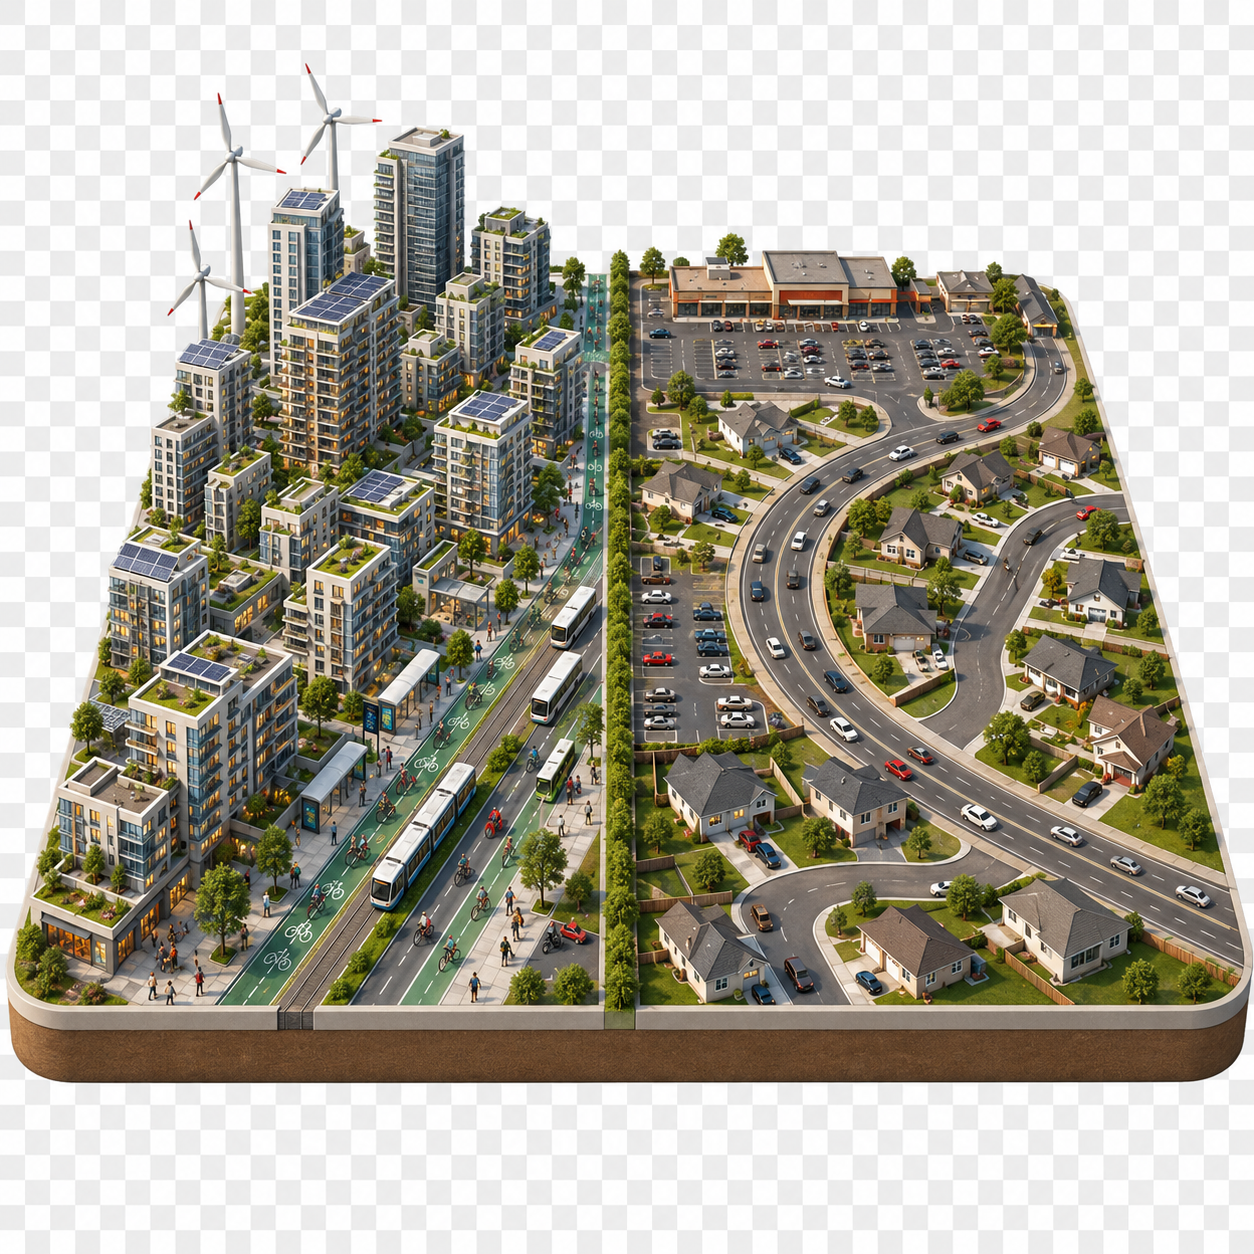
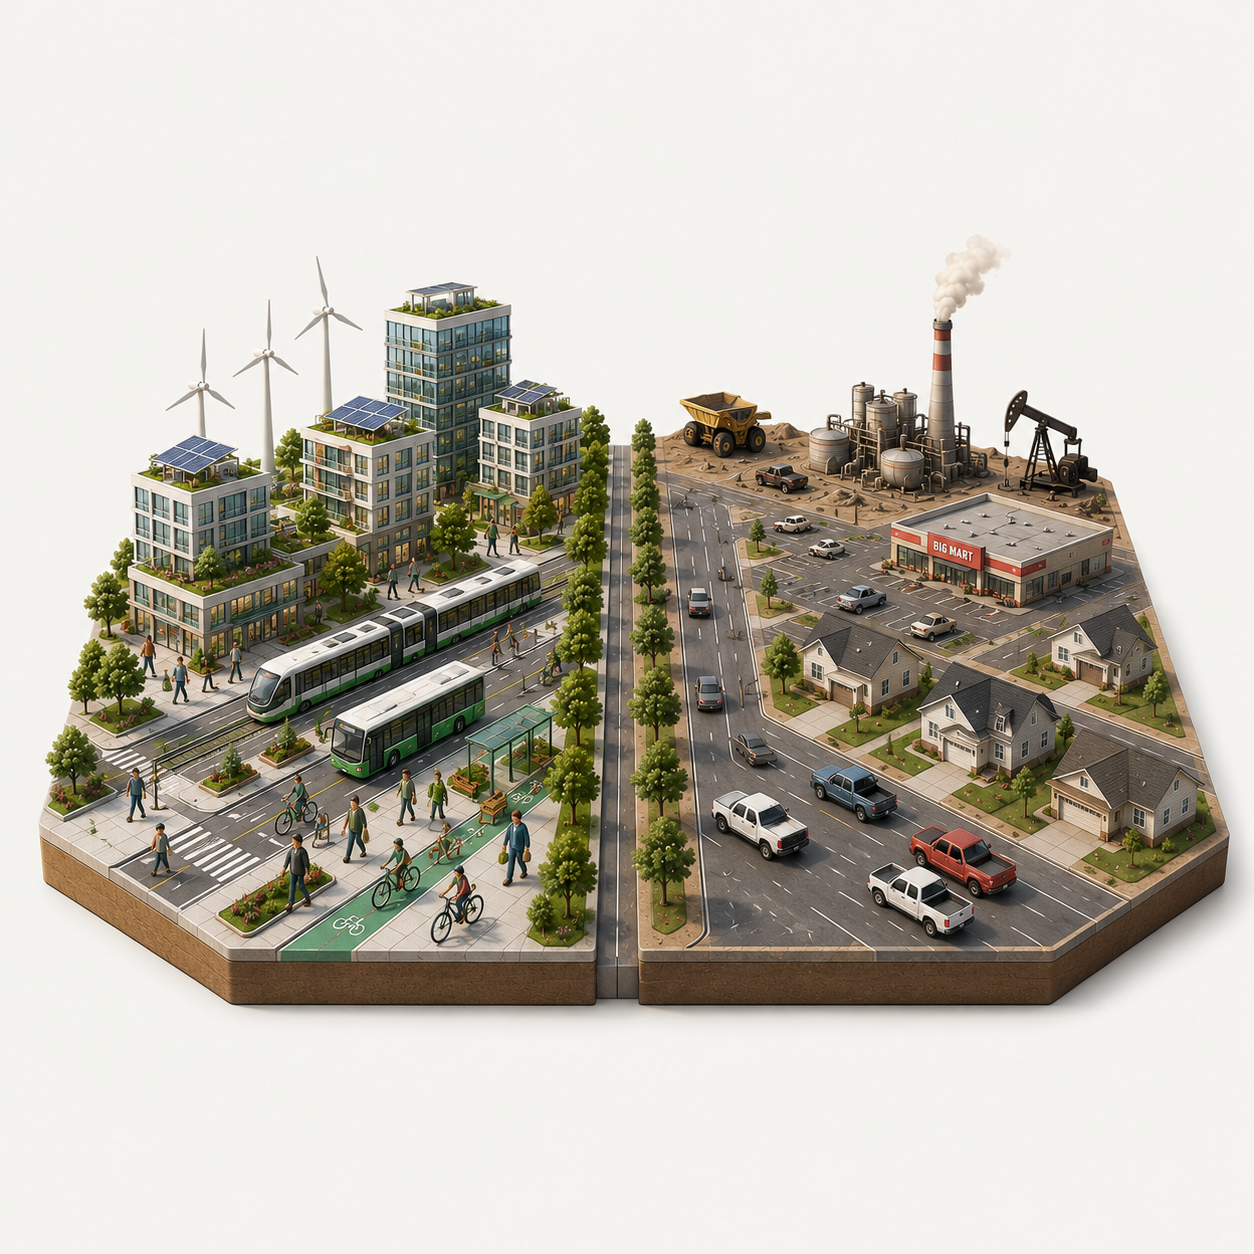
update url

diff --git a/app.js b/app.js
@@ -1638,17 +1638,24 @@ function clearActiveTrialTimers() {
   }
 }
 
-function beginTestingFlow() {
+function beginTestingFlow(options = {}) {
   clearActiveTrialTimers();
   testingState = createTestingState();
   setTestingMode(true);
   renderTestingFlow();
+  if (!options.skipRouteUpdate) updateAppRoute("begin-test");
 }
 
-function returnToPrototype() {
+function returnToPrototype(options = {}) {
   clearActiveTrialTimers();
   testingState = null;
   setTestingMode(false);
+  if (!options.skipRouteUpdate) {
+    const activePageTab =
+      document.querySelector('.page-tabs [data-tab-group="page"].is-active') ||
+      $("#example-tab-button");
+    updateAppRoute(routeNameForTab(activePageTab) || "applications");
+  }
 }
 
 function showTestingInstructions() {
@@ -2424,6 +2431,119 @@ function typesetPanel(panel) {
   }
 }
 
+const appRoutes = {
+  applications: {
+    path: "Applications",
+    tabId: "example-tab-button",
+    aliases: ["applications", "application", "appliations"],
+  },
+  method: {
+    path: "Method",
+    tabId: "explore-tab-button",
+    aliases: ["method", "methods", "explore"],
+  },
+  math: {
+    path: "Math",
+    tabId: "math-tab-button",
+    aliases: ["math", "math-explanation", "math_explanation"],
+  },
+  "begin-test": {
+    path: "Begin-Test",
+    aliases: ["begin-test", "begin-test", "begin-testing", "testing", "test"],
+  },
+};
+
+let isApplyingAppRoute = false;
+
+function normalizeRouteSegment(segment) {
+  return decodeURIComponent(segment || "")
+    .trim()
+    .replace(/^\/+|\/+$/g, "")
+    .toLowerCase();
+}
+
+function routeNameForSegment(segment) {
+  const normalized = normalizeRouteSegment(segment);
+  if (!normalized || normalized === "index.html") return "applications";
+  return (
+    Object.entries(appRoutes).find(([, route]) =>
+      [route.path, ...(route.aliases || [])]
+        .map(normalizeRouteSegment)
+        .includes(normalized)
+    )?.[0] || "applications"
+  );
+}
+
+function routeNameForTab(button) {
+  if (!button) return null;
+  return Object.entries(appRoutes).find(([, route]) => route.tabId === button.id)?.[0] || null;
+}
+
+function currentRouteSegment() {
+  const hashRoute = window.location.hash.match(/^#\/?(.+)$/)?.[1];
+  if (hashRoute) return hashRoute;
+  const routeParam = new URLSearchParams(window.location.search).get("route");
+  if (routeParam) return routeParam;
+  const pathParts = window.location.pathname.split("/").filter(Boolean);
+  return pathParts[pathParts.length - 1] || "";
+}
+
+function appBasePath() {
+  const pathParts = window.location.pathname.split("/").filter(Boolean);
+  const lastPart = pathParts[pathParts.length - 1] || "";
+  const lastIsRoute =
+    lastPart === "index.html" ||
+    Object.values(appRoutes).some((route) =>
+      [route.path, ...(route.aliases || [])]
+        .map(normalizeRouteSegment)
+        .includes(normalizeRouteSegment(lastPart))
+    );
+  const baseParts = lastIsRoute ? pathParts.slice(0, -1) : pathParts;
+  return `/${baseParts.join("/")}${baseParts.length ? "/" : ""}`;
+}
+
+function appRouteUrl(routeName) {
+  const route = appRoutes[routeName] || appRoutes.applications;
+  return `${appBasePath()}${route.path}`;
+}
+
+function updateAppRoute(routeName, mode = "push") {
+  const nextUrl = new URL(window.location.href);
+  if (window.location.protocol === "file:") {
+    nextUrl.hash = `/${(appRoutes[routeName] || appRoutes.applications).path}`;
+  } else {
+    nextUrl.pathname = appRouteUrl(routeName);
+    nextUrl.search = "";
+    nextUrl.hash = "";
+  }
+  if (nextUrl.href === window.location.href) return;
+  const method = mode === "replace" ? "replaceState" : "pushState";
+  window.history[method]({ appRoute: routeName }, "", nextUrl);
+}
+
+function applyAppRouteFromLocation(options = {}) {
+  const routeName = routeNameForSegment(currentRouteSegment());
+  const route = appRoutes[routeName] || appRoutes.applications;
+  isApplyingAppRoute = true;
+
+  if (routeName === "begin-test") {
+    beginTestingFlow({ skipRouteUpdate: true });
+  } else {
+    if (testingState) {
+      clearActiveTrialTimers();
+      testingState = null;
+    }
+    setTestingMode(false);
+    const button = document.getElementById(route.tabId);
+    if (button) activateTab(button);
+  }
+
+  isApplyingAppRoute = false;
+  if (options.replace !== false) {
+    updateAppRoute(routeName, "replace");
+  }
+}
+
 function activateTab(button) {
   const group = button.dataset.tabGroup;
   const targetId = button.dataset.tabTarget;
@@ -2443,11 +2563,18 @@ function activateTab(button) {
   });
 
   typesetPanel(panel);
+
+  if (group === "page" && !isApplyingAppRoute) {
+    const routeName = routeNameForTab(button);
+    if (routeName) updateAppRoute(routeName);
+  }
 }
 
 document.querySelectorAll("[data-tab-target]").forEach((button) => {
   button.addEventListener("click", () => activateTab(button));
 });
+
+window.addEventListener("popstate", () => applyAppRouteFromLocation({ replace: false }));
 
 document.addEventListener("pointerover", (event) => {
   const marker = event.target.closest(hoverTooltipSelector);
@@ -3620,3 +3747,4 @@ function initializeExampleApplications() {
 
 render();
 initializeExampleApplications();
+applyAppRouteFromLocation();

diff --git a/404.html b/404.html
@@ -1,0 +1,20 @@
+<!doctype html>
+<html lang="en">
+  <head>
+    <meta charset="utf-8">
+    <meta name="viewport" content="width=device-width, initial-scale=1">
+    <title>Bounded Bubbles</title>
+    <script>
+      (function () {
+        var repoBase = "/bounded-bubbles";
+        var path = window.location.pathname;
+        var route = path.indexOf(repoBase) === 0 ? path.slice(repoBase.length) : path;
+        var target = repoBase + "/?route=" + encodeURIComponent(route || "/Applications");
+        window.location.replace(target + window.location.hash);
+      })();
+    </script>
+  </head>
+  <body>
+    <p>Redirecting...</p>
+  </body>
+</html>

diff --git a/styles.css b/styles.css
@@ -236,8 +236,18 @@ h3 {
 
 .case-design-copy {
   display: grid;
-  gap: 12px;
+  gap: 10px;
   align-content: center;
+}
+
+.case-design-subtitle {
+  max-width: 980px;
+  margin: 0;
+  color: #1f5a54;
+  font-size: 0.92rem;
+  font-weight: 850;
+  letter-spacing: 0;
+  line-height: 1.1;
 }
 
 .case-design-intro h3 {
@@ -635,6 +645,10 @@ h3 {
   font-size: 0.86rem;
   font-weight: 400;
   line-height: 1.32;
+}
+
+.example-step-success small {
+  color: #141a1c;
 }
 
 .example-control-strip {

diff --git a/index.html b/index.html
@@ -290,7 +290,8 @@
 
           <section class="case-design-intro" aria-labelledby="language-design-title">
             <div class="case-design-copy">
-              <h3 id="language-design-title">Small-Value Amplification: Language Communities at Human Scale</h3>
+              <p class="case-design-subtitle">Small-Value Amplification</p>
+              <h3 id="language-design-title">Language Communities at Human Scale</h3>
               <p>
                 ELCat distinguishes speaker groups below and above 10,000, a meaningful threshold for reading language vulnerability alongside UNESCO's emphasis on transmission and institutional support. Raw sqrt sizing lets large families occlude one another, making individual bubbles hard to interact with or select. General fit compresses the range enough to recover touchable targets, and bounded emphasis with (e = -1) preserves the visual gap between red endangered languages below 10,000 speakers and brown near-endangered languages above it.
               </p>
@@ -506,7 +507,8 @@
 
           <section class="case-design-intro" aria-labelledby="climate-design-title">
             <div class="case-design-copy">
-              <h3 id="climate-design-title">Large-Value Amplification: Carbon Responsibility</h3>
+              <p class="case-design-subtitle">Large-Value Amplification</p>
+              <h3 id="climate-design-title">Carbon Responsibility</h3>
               <p>
                 With (e = 1), high emitters separate from lower-carbon industrial countries. Japan and Germany no longer read like the U.S., Australia, and Canada. This matters because the upper tail reflects structural differences in energy systems, transport, fossil-fuel reliance, and policy choices. Here the story is responsibility among industrial economies; lower-emission developing countries are already visually minor, so keeping them similarly small is acceptable.
               </p>